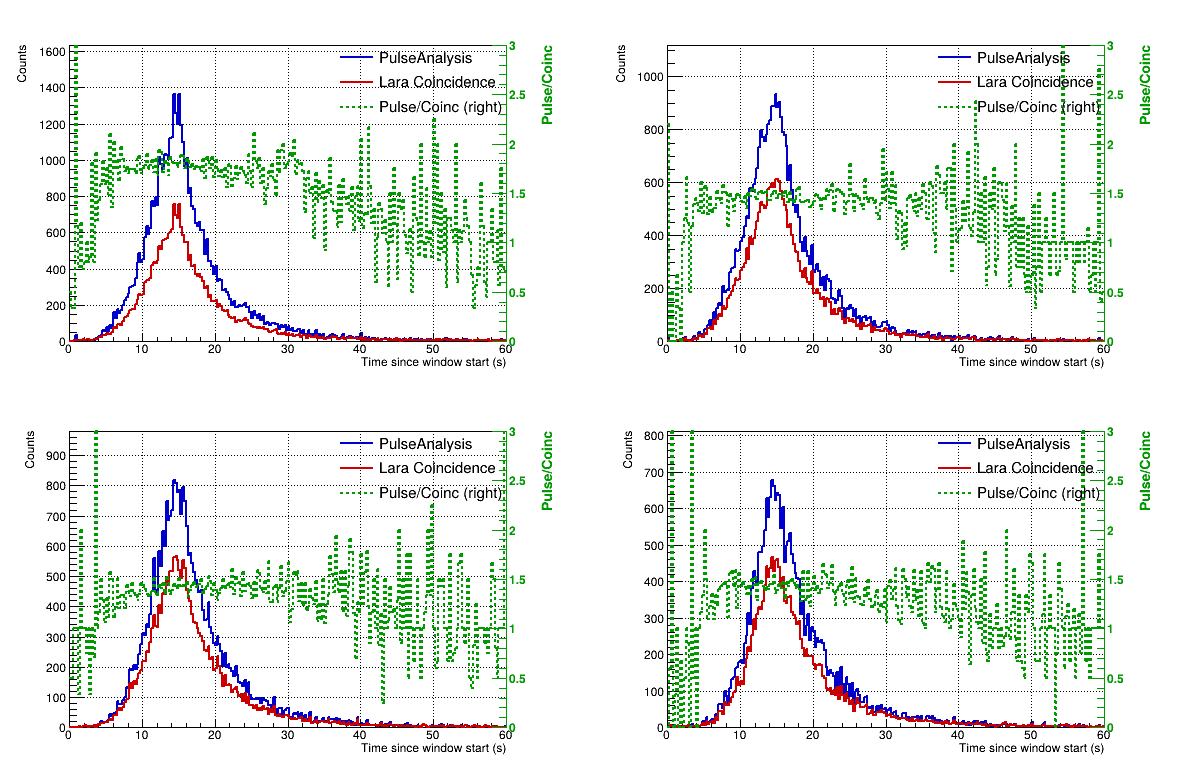
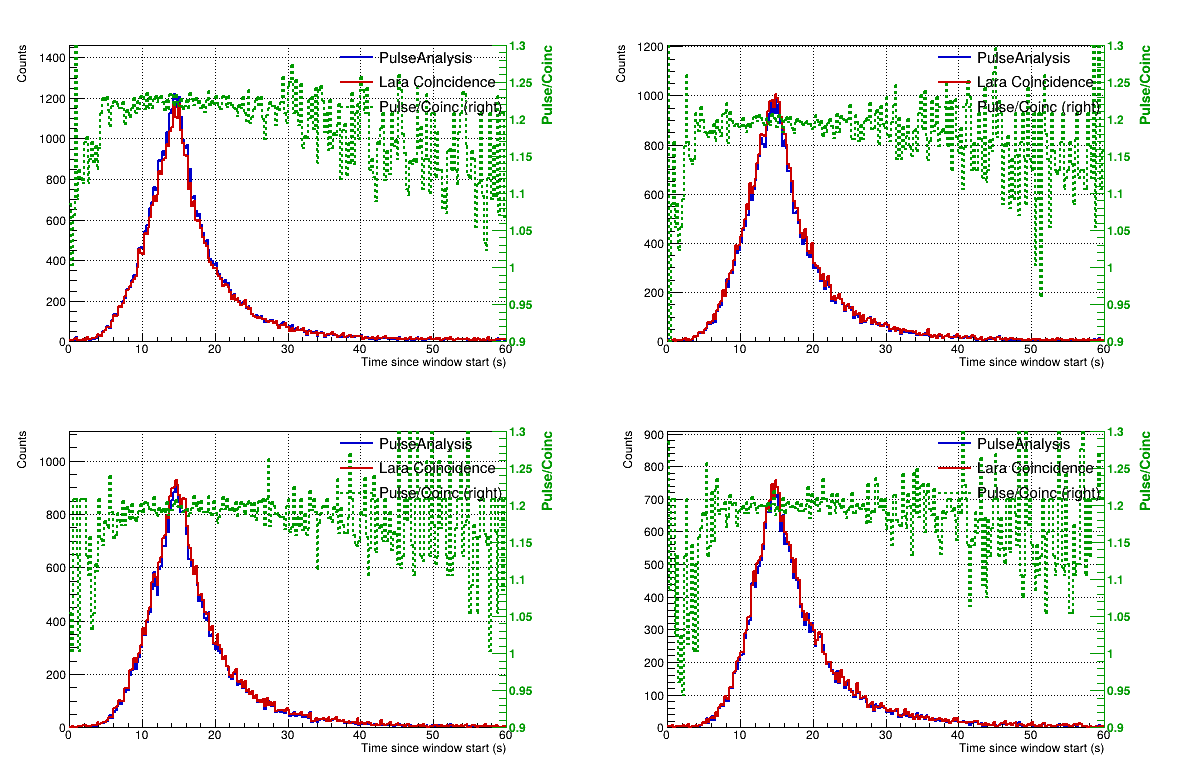
Adding plots

diff --git a/src/Pulse_Fitting.cpp b/src/Pulse_Fitting.cpp
@@ -47,17 +47,23 @@ void Pulse_Fitting::analyze() { // Assume 60s is the length for both the countin
     peBackgroundRate_ = std::max(0.0, backgroundTimes.size() / bg_duration_sec);
     fitting_bg_ = false;
 
-    const int MAX_ITERS = 3;
+    const int MAX_ITERS = 10;
+    const double tolRel = 1e-2;
+
     for (int it = 0; it < MAX_ITERS; ++it) {
         backgroundPulses_.clear();
         fitRegion(backgroundTimes, backgroundPulses_);
 
         double sumPE = 0.0;
         for (const auto& pr : backgroundPulses_) sumPE += std::get<1>(pr);
-        double rate_hat = (backgroundTimes.size() - sumPE) / bg_duration_sec;
-        peBackgroundRate_ = std::max(0.0, rate_hat);
+        
+        double rate_hat = std::max(0.0, (backgroundTimes.size() - sumPE) / bg_duration_sec);
+        double delta = std::fabs(rate_hat - peBackgroundRate_);
+        double tol = tolRel * std::max(1.0, peBackgroundRate_);
 
+        peBackgroundRate_ = rate_hat;
         fitting_bg_ = true;
+        if (delta < tol) break; // converged
     }
     
     fitRegion(signalTimes, signalPulses_); // parse windows, fit pulses
@@ -272,7 +278,7 @@ void Pulse_Fitting::fitRegion(const vector<double>& data_us,
                                         const vector<double>& DTs,
                                         const vector<vector<double>>& look) {
                 vector<vector<double>> comps;
-                const double bg = peBackgroundRate_ * binWidth_us * 1e-6;
+                const double bg = peBackgroundRate_ * binWidth_us * 1e-6; // pe bg rate is in unit of s
                 comps.reserve(PEs.size());
                 vector<double> total(hist.size(), 0.0);
                 for (size_t m = 0; m < PEs.size(); ++m) {
@@ -284,7 +290,7 @@ void Pulse_Fitting::fitRegion(const vector<double>& data_us,
                         double val = PEs[m] * row[j]; // density -> mass distribution (Sept 1, 2025)
                         comp[j] = val;
                         total[j] += val;
-                        total[j] += bg;
+                        if (m == 0) total[j] += bg;
                     }
                     comps.push_back(std::move(comp));
                 }
@@ -313,7 +319,7 @@ void Pulse_Fitting::fitRegion(const vector<double>& data_us,
         for (size_t k = 0; k < fittedPEs.size(); ++k) {
             int dt_bins = round_to_index(fittedDTs[k], (int)xCenters.size() - 1);
             dt_bins = std::max(0, std::min(dt_bins, (int)xCenters.size() - 1)); // FIX
-            double pulse_time_us = startTime + dt_bins * binWidth_us + shiftUs_; // +5us correction
+            double pulse_time_us = startTime + dt_bins * binWidth_us; // +5us correction
             output.emplace_back(pulse_time_us, fittedPEs[k], windowIndex, windowWidth, fittedPEs.size() > 1, binWidth_us == fineBinWidth_us_); // store result
             // cout << (double)j/(double)N << ", " << pulse_time_us / 1e6 << ", " << fittedPEs[k] << ", " << endl;
             carryPulses_.emplace_back(pulse_time_us, fittedPEs[k]); // FIX
@@ -330,7 +336,7 @@ vector<vector<double>> Pulse_Fitting::generatePDFLookup(const vector<double>& xC
     const int length = static_cast<int>(xCenters.size());
     const double binWidth_us = xCenters[1] - xCenters[0];
 
-    auto key = std::make_pair(length, std::round(binWidth_us * 1e6) / 1e6);
+    auto key = std::make_pair(length, std::round(binWidth_us * 100.0) / 100.0); // PDF is 0.01us in resolution
     auto it = pdfCache_.find(key);
     if (it != pdfCache_.end()) return it->second;
 
@@ -376,11 +382,11 @@ vector<int> Pulse_Fitting::findCoincidenceSeeds(double startUs, double endUs, do
 
     auto it0 = std::lower_bound(peTimes_us_.begin(), peTimes_us_.end(), startUs);
     int i0 = (int)std::distance(peTimes_us_.begin(), it0);
-    double prev_time = 0.0; // us
+    double prev_time_us = 0.0; // us
 
     for (int i = i0; i < N; ++i) {
         const double t0 = peTimes_us_[i];
-        if (t0 < prev_time) continue; // skip hits that are too close to previous seed
+        if (t0 < prev_time_us) continue; // skip hits that are too close to previous seed
         if (t0 >= endUs) break;
         const int ch0 = peChans_[i];
 
@@ -399,7 +405,7 @@ vector<int> Pulse_Fitting::findCoincidenceSeeds(double startUs, double endUs, do
         const bool accepted = (armed && total >= coinc_seed_pe_min_);
         if (accepted) {
             seeds.push_back(seed_idx);
-            prev_time = t0 + seeding_window_us_; // us
+            prev_time_us = t0 + seeding_window_us_; // us
         }
     }
 
@@ -423,6 +429,8 @@ bool Pulse_Fitting::fitPulses(const vector<int>& hist, const vector<double>& xCe
     vector<double> peGuess;
     vector<double> dtGuess;
 
+    const int W = std::max(1, (int)std::ceil(seeding_window_us_ / (binWidth_us + 1e-12)));
+
     if (use_coinc_) {
         const double startUs = curWindowStartUs_;
         const double endUs = curWindowStartUs_ + std::max(0, (int)xCenters.size() - pre_bins) * binWidth_us;
@@ -437,6 +445,14 @@ bool Pulse_Fitting::fitPulses(const vector<int>& hist, const vector<double>& xCe
                     << " pre_bins=" << pre_bins
                     << " nbins=" << xCenters.size()
                     << "\n";
+
+            std::cerr << "[";
+            for (auto b : xCenters) std::cerr << b << ' ';
+            std::cerr << "]\n";
+
+            std::cerr << "[";
+            for (auto b : hist) std::cerr << b << ' ';
+            std::cerr << "]\n";
 
             std::cerr << "  [GRAD] seed bins: ";
             for (int b : dbg_grad_peaks) std::cerr << b << ' ';
@@ -461,38 +477,28 @@ bool Pulse_Fitting::fitPulses(const vector<int>& hist, const vector<double>& xCe
             std::cerr << "  [PEAK] raw peak at bin " << p << " -> dt guess at bin " << idx << "\n";
         }
 
-        if (idx < 0 || idx > (int)hist.size()) continue;
+        if (idx < 0 || idx >= (int)hist.size()) continue;
 
-        int end = min(p + (int)std::ceil(seeding_window_us_ / binWidth_us) + 1, static_cast<int>(hist.size())); // p here not idx because there are pre-bins, +1 because accumulate is exclusive at the end
+        int end = min(p + W + 1, static_cast<int>(hist.size())); // p here not idx because there are pre-bins, +1 because accumulate is exclusive at the end
         int sum = accumulate(hist.begin() + p, hist.begin() + end, 0); // p here not idx because there are pre-bins
 
         if (dbg) {
             std::cerr << "    [PEAK] sum from bin " << p << " to " << end - 1 << " = " << sum << "\n";
         }
 
-        if (sum >= pe_min_thresh_) {
+        if (sum >= static_cast<int>(max(1.0, std::ceil(pe_min_thresh_ / 2.0)))) {
             peGuess.push_back(sum);
             dtGuess.push_back(idx);
         }
     }
 
-    vector<double> newPE, newDT;
-    for (size_t i = 0; i < peGuess.size(); ++i) {
-        if (peGuess[i] >= 5) {
-            newPE.push_back(peGuess[i]);
-            newDT.push_back(dtGuess[i]);
-        }
-    }
-
-    if (newPE.empty()) return false;
-
+    if (peGuess.empty()) return false;
     
     if (dbg) {
         std::cerr << "  [INIT] raw pe/dt_bin/dt_us guesses (size=" << peGuess.size() << "): ";
-        for (size_t i=0;i<peGuess.size();++i) std::cerr << "(" << peGuess[i] << "," << dtGuess[i] << "," << dtGuess[i] / binWidth_us << ") ";
+        for (size_t i=0;i<peGuess.size();++i) std::cerr << "(" << peGuess[i] << "," << dtGuess[i] << "," << dtGuess[i] * binWidth_us << ") ";
         std::cerr << "\n";
     }
-
 
     FitProblem prob;
     prob.observed = &hist;
@@ -510,15 +516,16 @@ bool Pulse_Fitting::fitPulses(const vector<int>& hist, const vector<double>& xCe
     double dtMin = 0.0, dtMax = (double)xCenters.size() - 1.000001;
 
     std::vector<std::pair<double, double>> seeds;
-    seeds.reserve(newPE.size());
-    for (size_t i=0;i<newPE.size();++i) seeds.emplace_back(newDT[i], newPE[i]);
+    seeds.reserve(peGuess.size());
+    for (size_t i=0;i<peGuess.size();++i) seeds.emplace_back(dtGuess[i], peGuess[i]);
     std::sort(seeds.begin(), seeds.end(), [](auto a, auto b){ return a.first < b.first; });
 
-    const int closeBins = (int)std::llround(cluster_close_us_ / (binWidth_us + 1e-9)); // within 5 us
-    auto clusters = cluster_seeds(seeds, closeBins);
+    auto clusters = cluster_seeds(seeds, binWidth_us, cluster_close_us_);
 
-    KSelectOptions kopt;
-    kopt.useBIC = false;
+    kSelectOptions kopt;
+    kopt.criterion = kSelectOptions::Criterion::AICc;
+    kopt.use_local_T = true;
+    kopt.lrt_min_delta = 6.0; // set 0.0 to disable
     kopt.maxEval = 200;
 
     size_t ci = 0;
@@ -617,9 +624,20 @@ bool Pulse_Fitting::fitPulses(const vector<int>& hist, const vector<double>& xCe
 
     for (int it=0; it<3; ++it) {
         auto r2 = fit_n_pulses_bobyqa(prob, (int)r.PEs.size(), r.PEs, r.DTs, peMin, peMax, dtMin, dtMax, 200);
+
+        if (dbg) {
+            if (r2.ok) {
+                std::cerr << "  [FINAL LOOPING] after fit_n_pulses_bobyqa iteration " << it << ": ";
+                for (size_t i=0;i<r2.PEs.size();++i) std::cerr << "(" << r2.PEs[i] << "," << r2.DTs[i] << ") ";
+                std::cerr << "\n";
+            } else {
+                std::cerr << "  [FINAL LOOPING] fit_global_from_selections failed\n";
+            }
+        }
+
         if (!r2.ok) break;
         auto pr2 = prune(r2.PEs, r2.DTs);
-        if ((int)pr2.first.size() == (int)r.PEs.size()) { r = r2; break; } // 收斂
+        if ((int)pr2.first.size() == (int)r.PEs.size()) { r = r2; break; }
         if (pr2.first.empty()) return false;
         r.PEs.swap(pr2.first); r.DTs.swap(pr2.second);
     }

diff --git a/src/FitCore.cpp b/src/FitCore.cpp
@@ -8,7 +8,7 @@
 #include <algorithm>
 
 std::vector<double> g_log_fact = [](){
-    const int MAX_K = 1000;
+    const int MAX_K = 5000;
     std::vector<double> table(MAX_K);
     for (int k = 0; k < MAX_K; ++k) {
         table[k] = std::lgamma(k + 1.0);
@@ -219,12 +219,12 @@ FitResult fit_n_pulses_bobyqa(
 }
 
 std::vector<std::vector<std::pair<double, double>>> 
-cluster_seeds(const std::vector<std::pair<double,double>>& s, int closeBins) {
+cluster_seeds(const std::vector<std::pair<double,double>>& s, double binWidth_us, double cluster_close_us) {
     std::vector<std::vector<std::pair<double,double>>> clusters;
     if (s.empty()) return clusters;
     std::vector<std::pair<double,double>> cur; cur.push_back(s[0]);
     for (size_t i=1;i<s.size();++i){
-        if (std::fabs(s[i].first - s[i-1].first) <= closeBins) cur.push_back(s[i]);
+        if (std::fabs((s[i].first - s[i-1].first) * binWidth_us) <= cluster_close_us) cur.push_back(s[i]);
         else { clusters.push_back(cur); cur.clear(); cur.push_back(s[i]); }
     }
     clusters.push_back(cur);
@@ -266,16 +266,60 @@ static void init_k_weighted(
 std::pair<FitResult,int> select_k_for_cluster(
     const FitProblem& prob, const std::vector<std::pair<double,double>>& cl,
     double peMin, double peMax, double dtMin, double dtMax,
-    const KSelectOptions& opt)
+    const kSelectOptions& opt)
 {
     FitResult best; int best_k = 0;
     const int m = (int)cl.size();
+
+    auto score = [&](double nll, int k, int T_eff) {
+        const int p = 2*k; // # parameters, PE and DT per pulse
+        switch (opt.criterion) {
+            case kSelectOptions::Criterion::NLL:
+                return nll;
+            case kSelectOptions::Criterion::AIC:
+                return 2.0*nll + 2.0*p;
+            case kSelectOptions::Criterion::AICc: {
+                // fallback to AIC when T_eff too small
+                if (T_eff <= p + 1) return 2.0*nll + 2.0*p;
+                return 2.0*nll + 2.0*p + (2.0*p*(p+1)) / (T_eff - p - 1);
+            }
+            case kSelectOptions::Criterion::BIC:
+                return 2.0*nll + p*std::log(std::max(1, T_eff));
+            case kSelectOptions::Criterion::SoftBIC:
+                return 2.0*nll + opt.use_bic_lambda * p*std::log(std::max(1, T_eff));
+        }
+        return std::numeric_limits<double>::infinity();
+    };
+
+    double prev_nll = std::numeric_limits<double>::infinity();
+    bool have_prev = false;
+
     for (int k=1;k<=m;++k){
-        std::vector<double> pe0, dt0; init_k_weighted(cl, k, pe0, dt0);
+        std::vector<double> pe0, dt0; 
+        init_k_weighted(cl, k, pe0, dt0);
+        const int T_eff = opt.use_local_T 
+            ? std::max(1, (int)std::floor(dtMax) - (int)std::ceil(dtMin) + 1)
+            : std::max(1, prob.nTime);
+
         FitResult r = fit_n_pulses_bobyqa(prob, k, pe0, dt0, peMin, peMax, dtMin, dtMax, opt.maxEval);
         if (!r.ok) continue;
-        double s = opt.useBIC ? (2.0*r.nll + (2*k)*std::log(std::max(1, prob.nTime))) : r.nll;
-        double s_best = best.ok ? (opt.useBIC ? (2.0*best.nll + (2*best_k)*std::log(std::max(1, prob.nTime))) : best.nll) : std::numeric_limits<double>::infinity();
+        
+        bool pass_lrt = true;
+        if (opt.lrt_min_delta > 0.0 && have_prev) {
+            const double delta = 2.0*(prev_nll - r.nll); // improvement
+            pass_lrt = (delta >= opt.lrt_min_delta);
+        }
+        
+        prev_nll = r.nll;
+        have_prev = true;
+
+        if (!pass_lrt) continue;
+
+        const double s = score(r.nll, k, T_eff);
+        const double s_best = best.ok 
+            ? score(best.nll, best_k, T_eff) 
+            : std::numeric_limits<double>::infinity();
+
         if (!best.ok || s < s_best) { best=r; best_k=k; }
     }
     return {best, best_k};

diff --git a/src/Results_Comp.cpp b/src/Results_Comp.cpp
@@ -218,8 +218,6 @@ void plot_obs_exp_corr(const std::vector<WindowRow>& ws_all, const std::string& 
     double lo = std::min((double)minObs, minExp);
     double hi = std::max((double)maxObs, maxExp);
 
-    hi = std::min(hi, 300.0); // cut-off
-
     TLine* diag = new TLine(lo, lo, hi, hi);
     diag->SetLineStyle(1);
     diag->SetLineColor(kRed+1);
@@ -328,7 +326,7 @@ static void plot_comparisons(const std::vector<PulseRow>& pulse,
                 h_ratio->SetBinError(b, 0.0);
             }
 
-            double rightMax = 3.0;
+            double rightMax = 1.3;
             double scale = (hLeft->GetMaximum() > 0.0) ? (hLeft->GetMaximum() / rightMax) : 1.0;
 
             TH1D* h_ratio_scaled = (TH1D*)h_ratio->Clone(("h_ratio_scaled_"+name_suffix).c_str());
@@ -343,7 +341,7 @@ static void plot_comparisons(const std::vector<PulseRow>& pulse,
             double xRight = gPad->GetUxmax();
             double yLow   = gPad->GetUymin();
             double yHigh  = gPad->GetUymax();
-            auto axis = new TGaxis(xRight, yLow, xRight, yHigh, 0.0, rightMax, 510, "+L");
+            auto axis = new TGaxis(xRight, yLow, xRight, yHigh, 0.9, rightMax, 510, "+L");
             axis->SetTitle("Pulse/Coinc");
             axis->SetTitleColor(kGreen+2);
             axis->SetLabelColor(kGreen+2);

diff --git a/include/FitCore.h b/include/FitCore.h
@@ -2,6 +2,15 @@
 #include <vector>
 #include <utility>
 
+struct kSelectOptions {
+    enum class Criterion { NLL, AIC, AICc, BIC, SoftBIC };
+    Criterion criterion = Criterion::AICc;
+    double use_bic_lambda = 0.7;
+    bool use_local_T = true;
+    double lrt_min_delta = 0.0;
+    int maxEval = 200;
+};
+
 struct FitProblem {
     const std::vector<int>* observed;
     const std::vector<std::vector<double>>* pdfLookup;
@@ -32,18 +41,13 @@ FitResult fit_n_pulses_bobyqa(
     int maxEval = 200
 );
 
-struct KSelectOptions {
-    bool useBIC = false;
-    int maxEval = 200;
-};
-
-std::vector<std::vector<std::pair<double, double>>> cluster_seeds(const std::vector<std::pair<double, double>>& seeds_sorted_by_dt, int closeBins);
+std::vector<std::vector<std::pair<double, double>>> cluster_seeds(const std::vector<std::pair<double, double>>& seeds_sorted_by_dt, double binWidth_us, double cluster_close_us);
 
 std::pair<FitResult,int> select_k_for_cluster(
     const FitProblem& prob,
     const std::vector<std::pair<double,double>>& cluster,
     double peMin, double peMax, double dtMin, double dtMax,
-    const KSelectOptions& opt
+    const kSelectOptions& opt
 );
 
 FitResult fit_global_from_selections(

diff --git a/include/Pulse_Fitting.h b/include/Pulse_Fitting.h
@@ -56,6 +56,7 @@ class Pulse_Fitting {
             coinc_win_us_ = c.coinc_win_us;
             coinc_seed_pe_min_ = c.coinc_seed_pe_min;
             cluster_close_us_ = c.cluster_close_us;
+            guardBin_ = use_coinc_ ? 0 : guardBin_;
             
             seeding_window_us_ = c.seeding_window_us;
             pe_min_thresh_ = c.pe_min_thresh;
